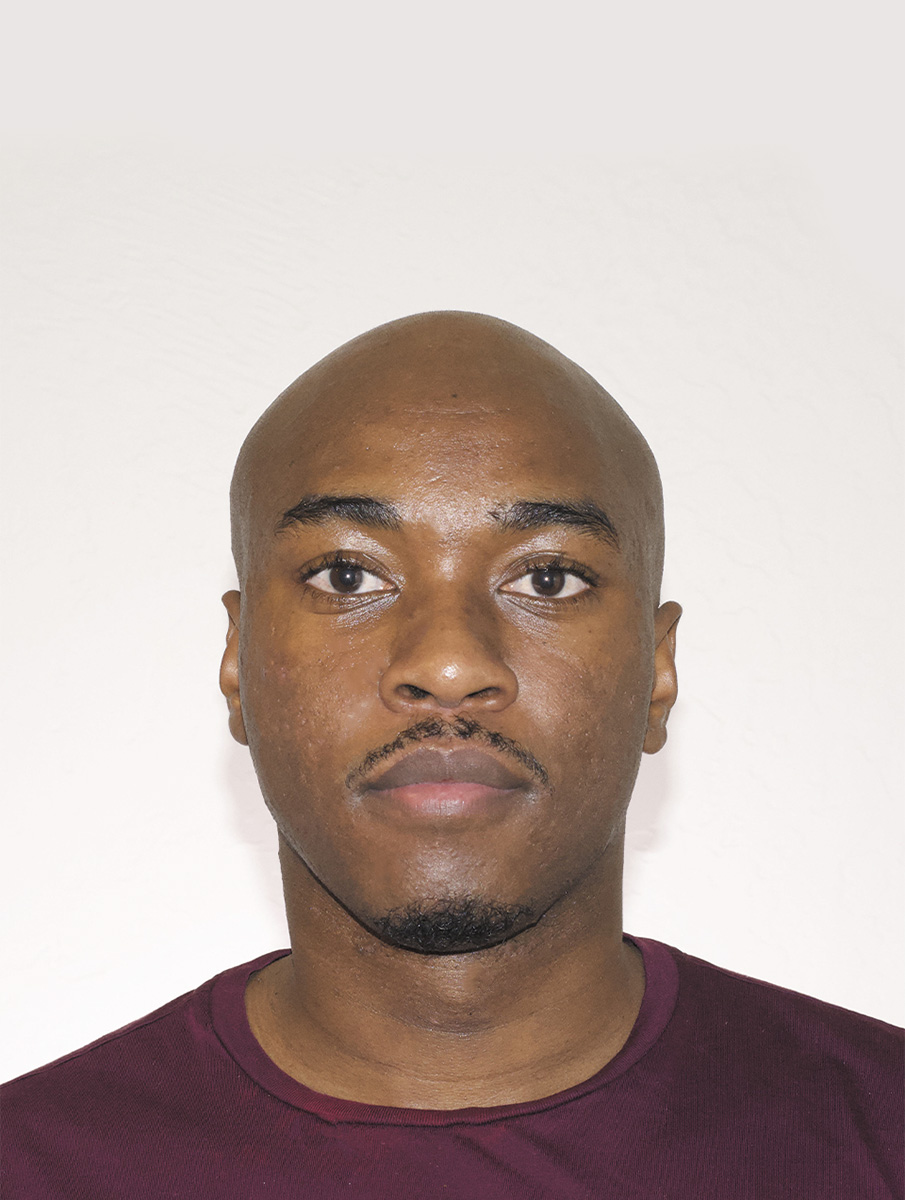
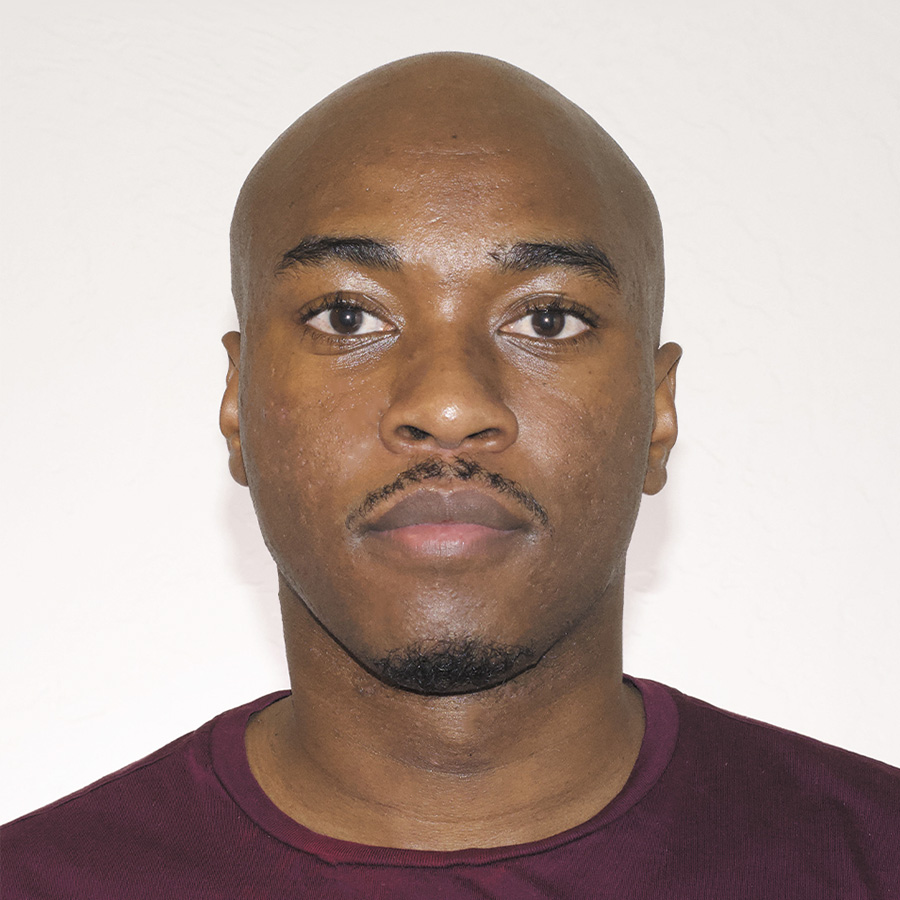
profile image updated

diff --git a/styles/global.css b/styles/global.css
@@ -27,6 +27,12 @@ a {
 img {
   max-width: 100%;
   display: block;
+  user-select: none;
+  user-drag: none;
+  -moz-user-select: none;
+  -webkit-user-drag: none;
+  -webkit-user-select: none;
+  -ms-user-select: none;
 }
 
 .container {
